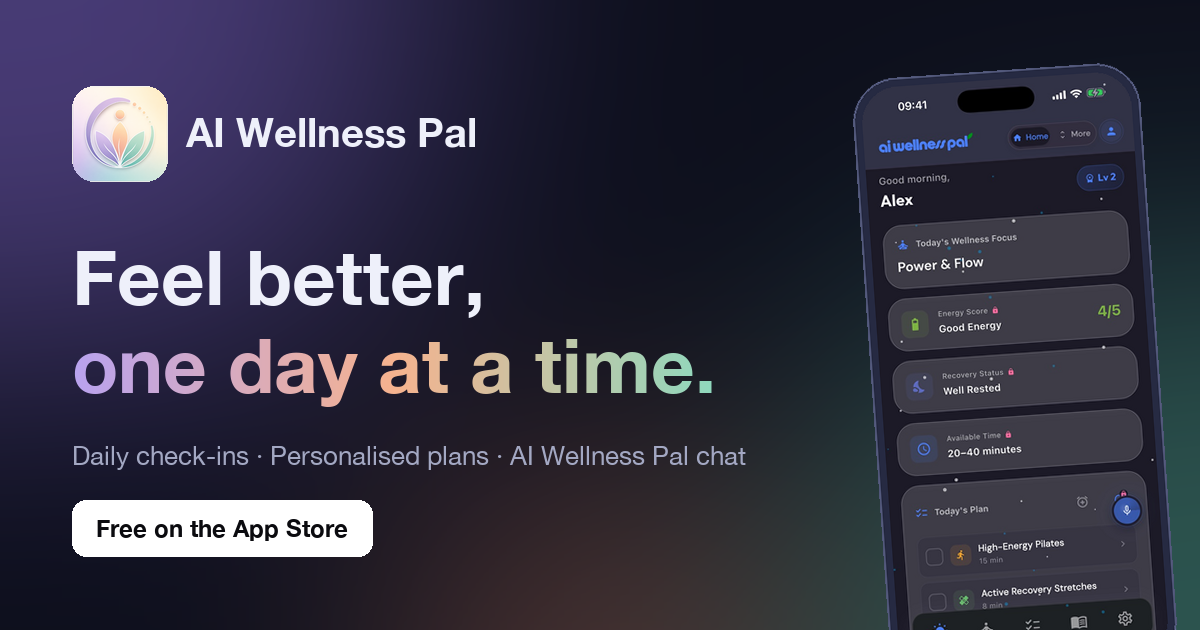
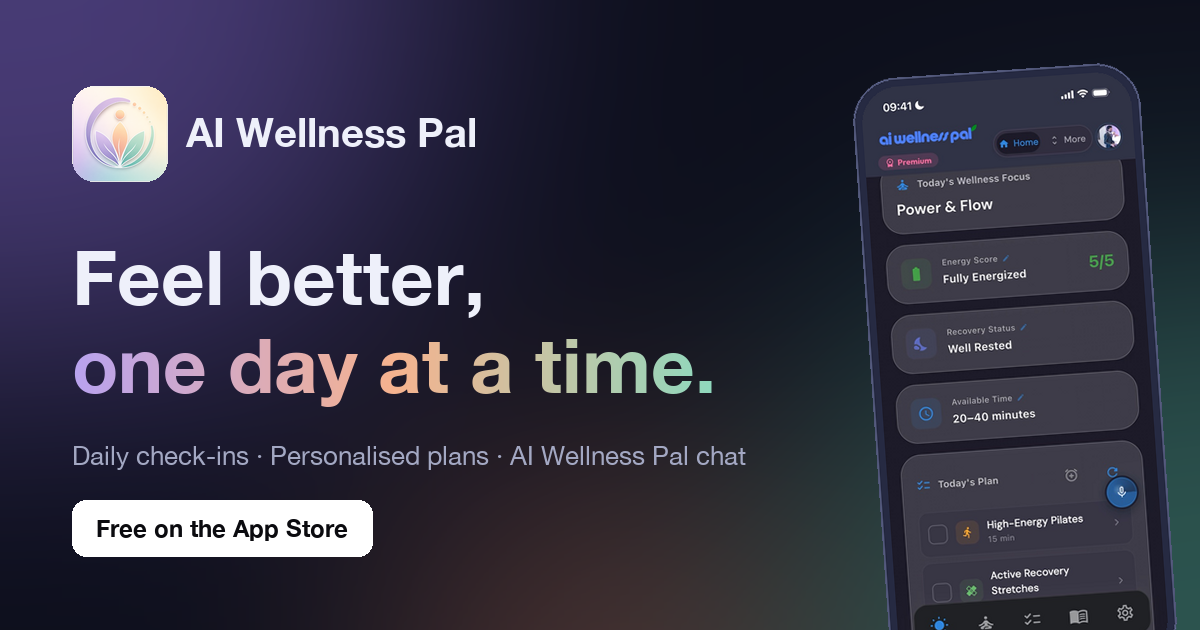
Add 20-screen gallery, refresh hero screenshots and preview image
- Replace hero screenshots (home, Wellness Pal live chat)
- New 'Made for real days' gallery with 20 screens in order, arrow
  navigation on desktop and swipe on mobile
- Blur personal email in the profile screenshot
- Rebuild social preview image from the new home screen
- Update structured-data screenshot list; ignore .DS_Store

diff --git a/index.html b/index.html
@@ -54,7 +54,7 @@
         "screenshot": [
           "https://aiwelnesspal.com/assets/screens/01_02_home.jpg",
           "https://aiwelnesspal.com/assets/screens/03_05_pal_chat.jpg",
-          "https://aiwelnesspal.com/assets/screens/04_06_nutrition.jpg"
+          "https://aiwelnesspal.com/assets/screens/10_life_toolkit.jpg"
         ],
         "operatingSystem": "iOS 15.0 or later",
         "applicationCategory": "HealthApplication",
@@ -122,8 +122,8 @@
         </div>
       </div>
       <div class="phones" aria-hidden="true">
-        <div class="phone back"><img src="assets/screens/03_05_pal_chat.jpg" alt="" width="598" height="1300"></div>
-        <div class="phone front"><img src="assets/screens/01_02_home.jpg" alt="" width="598" height="1300" fetchpriority="high"></div>
+        <div class="phone back"><img src="assets/screens/03_05_pal_chat.jpg" alt="" width="600" height="1300"></div>
+        <div class="phone front"><img src="assets/screens/01_02_home.jpg" alt="" width="600" height="1300" fetchpriority="high"></div>
       </div>
     </div>
   </section>
@@ -188,14 +188,40 @@
   </section>
 
   <!-- Screenshots -->
-  <section aria-label="App screenshots" style="padding-top:0">
-    <div class="shots reveal">
-      <img src="assets/screens/01_02_home.jpg" alt="Home screen with today's wellness focus and energy score" width="598" height="1300" loading="lazy">
-      <img src="assets/screens/02_03_home_plan.jpg" alt="Personalised daily plan" width="598" height="1300" loading="lazy">
-      <img src="assets/screens/03_05_pal_chat.jpg" alt="Chatting with the Wellness Pal" width="598" height="1300" loading="lazy">
-      <img src="assets/screens/04_06_nutrition.jpg" alt="Nutrition coach meal analysis" width="598" height="1300" loading="lazy">
-      <img src="assets/screens/05_10_reflection.jpg" alt="Guided reflection journal" width="598" height="1300" loading="lazy">
-      <img src="assets/screens/06_11_settings.jpg" alt="Settings and themes" width="598" height="1300" loading="lazy">
+  <section id="screens" aria-labelledby="screens-title" style="padding-top:0">
+    <div class="wrap">
+      <div class="shots-head reveal">
+        <div>
+          <span class="eyebrow">Take a look inside</span>
+          <h2 id="screens-title">Made for <span class="grad-text">real days</span></h2>
+        </div>
+        <div class="shots-nav">
+          <button class="btn btn-icon" type="button" data-dir="-1" aria-label="Previous screenshots"><svg viewBox="0 0 24 24"><path fill="none" stroke="currentColor" stroke-width="2.4" stroke-linecap="round" stroke-linejoin="round" d="M15 5l-7 7 7 7"/></svg></button>
+          <button class="btn btn-icon" type="button" data-dir="1" aria-label="Next screenshots"><svg viewBox="0 0 24 24"><path fill="none" stroke="currentColor" stroke-width="2.4" stroke-linecap="round" stroke-linejoin="round" d="M9 5l7 7-7 7"/></svg></button>
+        </div>
+      </div>
+    </div>
+    <div class="shots reveal" tabindex="0" aria-label="App screenshots, scroll sideways">
+      <img src="assets/screens/01_00_onboard.jpg" alt="Onboarding: less overthinking, focus on what matters most today" width="600" height="1300" loading="lazy">
+      <img src="assets/screens/01_01_onboard.jpg" alt="Onboarding: know your energy with quick daily check-ins" width="600" height="1300" loading="lazy">
+      <img src="assets/screens/01_03_checkin.jpg" alt="Daily check-in asking how your energy is today" width="600" height="1300" loading="lazy">
+      <img src="assets/screens/05_reminder.jpg" alt="Setting a reminder time for a wellness action" width="600" height="1300" loading="lazy">
+      <img src="assets/screens/06_profile.jpg" alt="Profile with personal details and preferred wellness methods" width="600" height="1300" loading="lazy">
+      <img src="assets/screens/07_action_detail.jpg" alt="Plank and core challenge action details with a how-to guide" width="600" height="1300" loading="lazy">
+      <img src="assets/screens/08_add_habit.jpg" alt="Adding a custom habit with frequency and target" width="600" height="1300" loading="lazy">
+      <img src="assets/screens/09_habit_formed.jpg" alt="Achievement unlocked celebration for forming a habit" width="600" height="1300" loading="lazy">
+      <img src="assets/screens/10_life_toolkit.jpg" alt="Life toolkit with period tracker, body weight, hydration, calorie and meal planning tools" width="600" height="1300" loading="lazy">
+      <img src="assets/screens/11_period_tracker.jpg" alt="Period tracker with cycle day, predictions and phase tips" width="600" height="1300" loading="lazy">
+      <img src="assets/screens/12_body_weight.jpg" alt="Body weight tracker with trend chart and BMI" width="600" height="1300" loading="lazy">
+      <img src="assets/screens/13_hydration_coach.jpg" alt="Hydration coach with daily water goal and quick add" width="600" height="1300" loading="lazy">
+      <img src="assets/screens/14_wellness_studio.jpg" alt="Wellness studio with short breathing exercises" width="600" height="1300" loading="lazy">
+      <img src="assets/screens/15_wellness_reads.jpg" alt="Wellness reads on sleep, movement, nutrition and mental health" width="600" height="1300" loading="lazy">
+      <img src="assets/screens/16_wellness_intention.jpg" alt="Setting a new wellness intention" width="600" height="1300" loading="lazy">
+      <img src="assets/screens/17_habit_builder.jpg" alt="Habit builder with popular challenges and quick tools" width="600" height="1300" loading="lazy">
+      <img src="assets/screens/18_habit_list.jpg" alt="Habit builder list of active habits" width="600" height="1300" loading="lazy">
+      <img src="assets/screens/19_challenges.jpg" alt="Wellness challenges for hydration, walking, meditation and sleep" width="600" height="1300" loading="lazy">
+      <img src="assets/screens/21_reflections.jpg" alt="Guided wellness reflections and pinned conversations in light mode" width="600" height="1300" loading="lazy">
+      <img src="assets/screens/22_home_light.jpg" alt="Home screen in light mode with AI insight and nutrition progress" width="600" height="1300" loading="lazy">
     </div>
   </section>
 
@@ -327,6 +353,24 @@
   } else {
     document.querySelectorAll('.reveal').forEach(function (el) { el.classList.add('in'); });
   }
+
+  // Screenshot gallery arrows: scroll by roughly one screen's worth of images.
+  (function () {
+    var strip = document.querySelector('.shots');
+    var btns = document.querySelectorAll('.shots-nav button');
+    function update() {
+      btns[0].disabled = strip.scrollLeft <= 4;
+      btns[1].disabled = strip.scrollLeft + strip.clientWidth >= strip.scrollWidth - 4;
+    }
+    btns.forEach(function (b) {
+      b.addEventListener('click', function () {
+        strip.scrollBy({ left: Number(b.dataset.dir) * strip.clientWidth * 0.8, behavior: 'smooth' });
+      });
+    });
+    strip.addEventListener('scroll', update, { passive: true });
+    window.addEventListener('resize', update);
+    update();
+  })();
 
   // Android tester request form (FormSubmit emails each request to aiwellnesspal@gmail.com via its private alias).
   var form = document.getElementById('beta-form');

diff --git a/landing.css b/landing.css
@@ -143,12 +143,27 @@ section { padding: 88px 0; }
 .card .tag { display: inline-block; margin-left: 6px; font-size: 0.7rem; font-weight: 700; padding: 2px 8px; border-radius: 999px; background: var(--grad); color: #17142a; vertical-align: middle; }
 
 /* Screenshot strip */
-.shots { display: flex; gap: 18px; overflow-x: auto; scroll-snap-type: x mandatory; padding: 6px 20px 22px; scrollbar-width: thin; }
-.shots img {
-  flex: none; width: 230px; border-radius: 28px; scroll-snap-align: center;
-  border: 1px solid var(--border); box-shadow: 0 20px 50px -20px rgba(0, 0, 0, .8);
+.shots-head { display: flex; align-items: flex-end; justify-content: space-between; gap: 20px; margin-bottom: 26px; }
+.shots-head h2 { font-size: clamp(1.9rem, 3.8vw, 2.8rem); letter-spacing: -0.03em; line-height: 1.12; margin: 10px 0 0; }
+.shots-nav { display: flex; gap: 10px; }
+.btn-icon { width: 48px; height: 48px; padding: 0; justify-content: center; border-radius: 50%; }
+.btn-icon svg { width: 20px; height: 20px; }
+.btn-icon:disabled { opacity: .35; cursor: default; transform: none; }
+.shots {
+  --edge: max(20px, calc((100vw - var(--max)) / 2 + 20px));
+  display: flex; gap: 18px; overflow-x: auto; scroll-snap-type: x mandatory;
+  padding: 6px var(--edge) 26px; scroll-padding: 0 var(--edge);
+  scrollbar-width: none; outline: none;
+  -webkit-mask-image: linear-gradient(90deg, transparent, #000 4%, #000 96%, transparent);
+  mask-image: linear-gradient(90deg, transparent, #000 4%, #000 96%, transparent);
 }
-@media (min-width: 1500px) { .shots { justify-content: center; } }
+.shots::-webkit-scrollbar { display: none; }
+.shots img {
+  flex: none; width: 230px; border-radius: 28px; scroll-snap-align: start;
+  border: 1px solid var(--border); box-shadow: 0 20px 50px -20px rgba(0, 0, 0, .8);
+  transition: transform .3s;
+}
+.shots img:hover { transform: translateY(-6px); }
 
 /* Android beta */
 .beta {
@@ -260,5 +275,6 @@ footer a:hover { color: var(--text); }
   .beta { padding: 22px 18px; border-radius: 24px; }
   form.request { padding: 20px; }
   .shots img { width: 190px; border-radius: 24px; }
+  .shots-nav { display: none; }
   footer nav { margin-left: 0; }
 }
